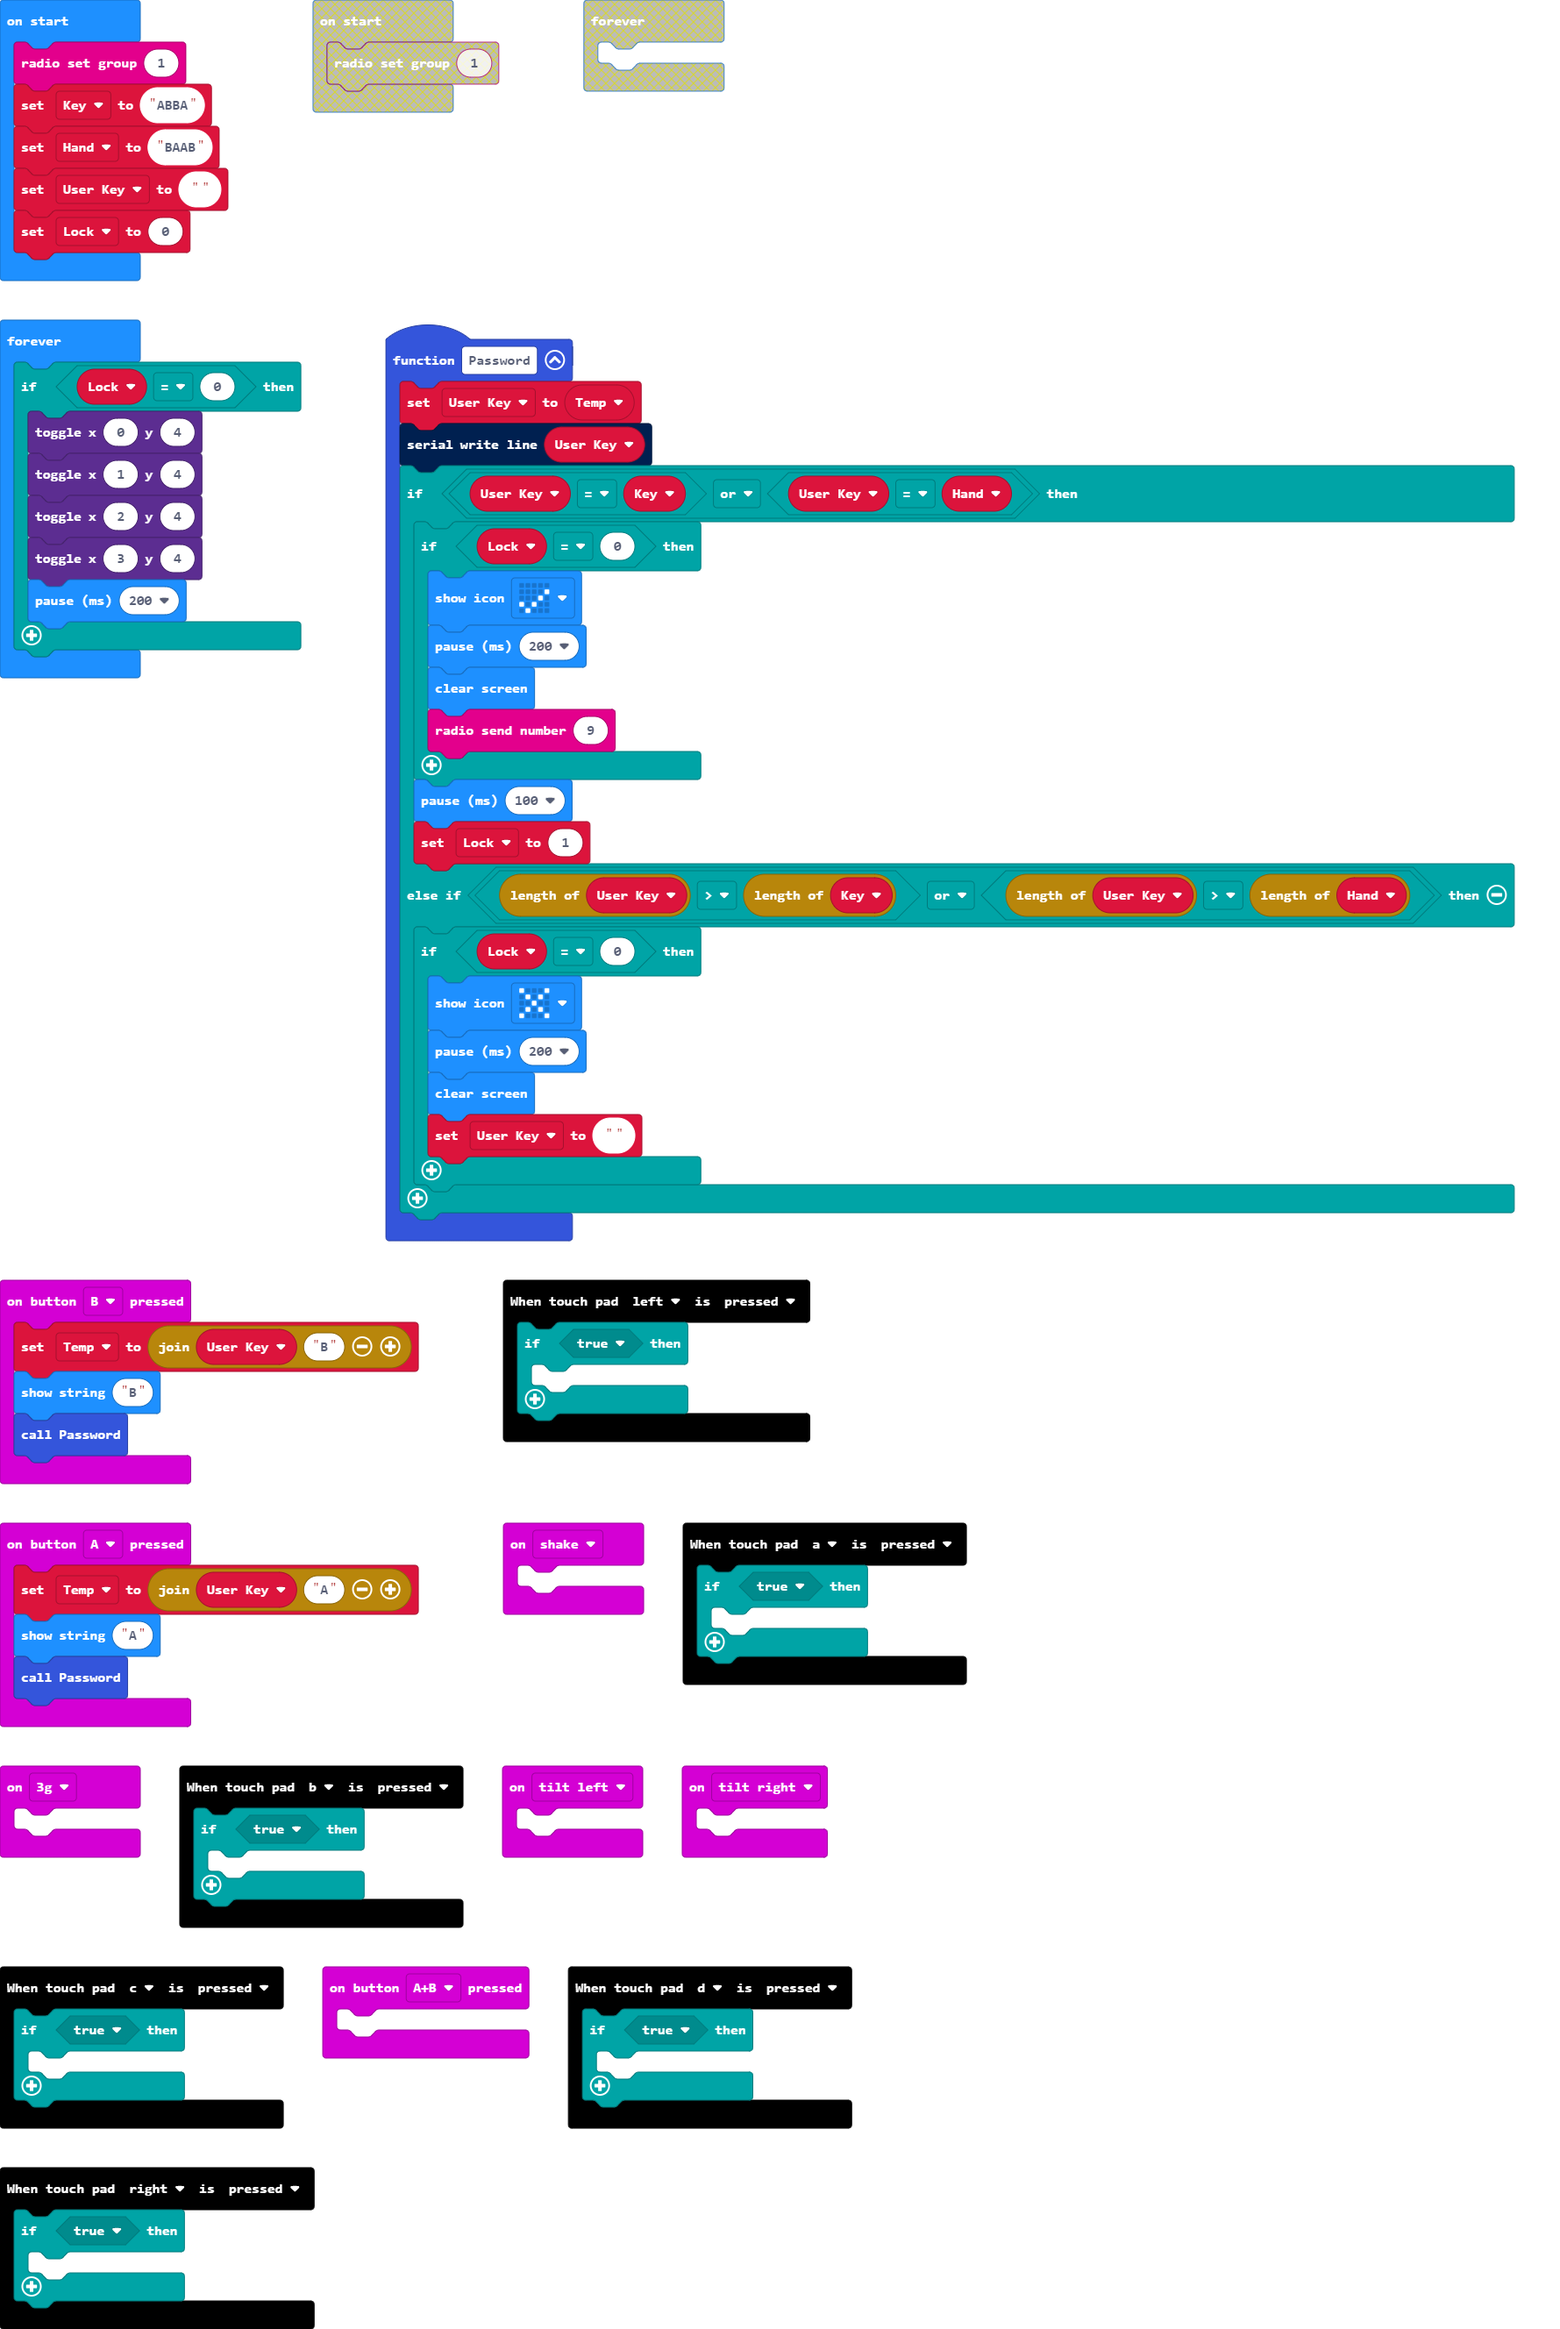
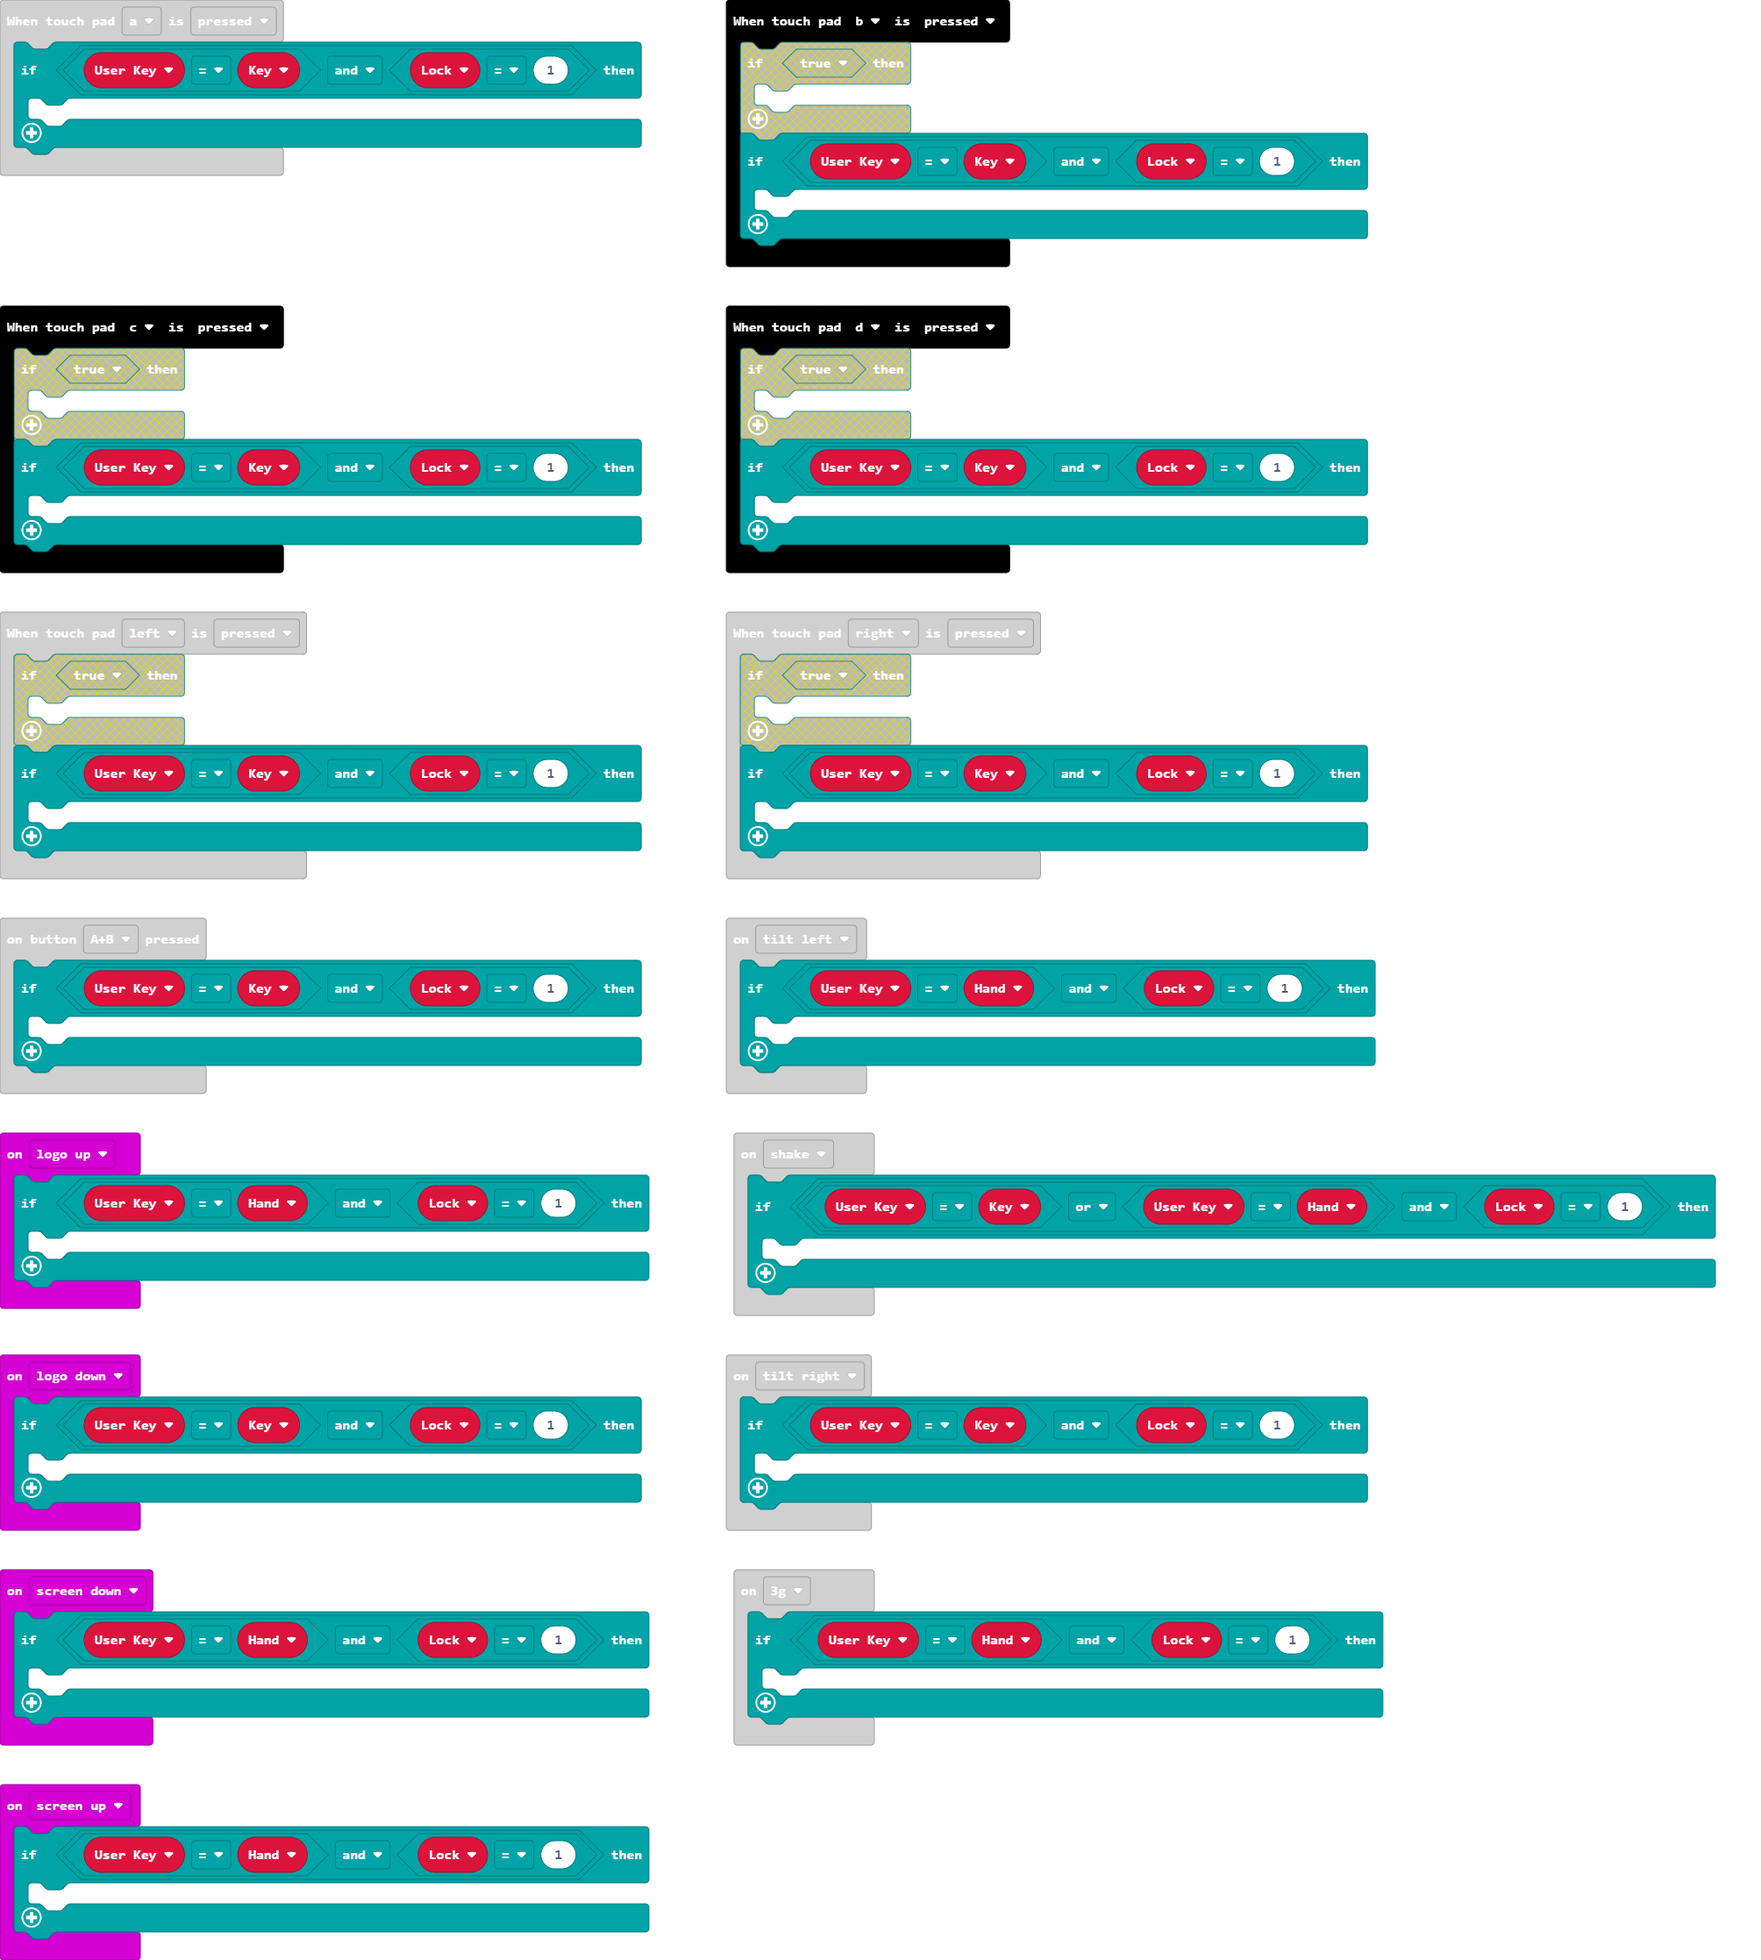
Update main.blocks, main.ts

diff --git a/main.ts b/main.ts
@@ -20,7 +20,7 @@ function Password () {
     }
 }
 touchbit.on(touchbit.TouchPad.b, touchbit.TouchEvent.pressed, function () {
-    if (true) {
+    if (User_Key == Key && Lock == 1) {
     	
     }
 })
@@ -29,31 +29,50 @@ input.onButtonPressed(Button.A, function () {
     basic.showString("A")
     Password()
 })
+input.onGesture(Gesture.LogoUp, function () {
+    if (User_Key == Hand && Lock == 1) {
+    	
+    }
+})
 touchbit.on(touchbit.TouchPad.d, touchbit.TouchEvent.pressed, function () {
-    if (true) {
+    if (User_Key == Key && Lock == 1) {
     	
     }
 })
 input.onGesture(Gesture.TiltLeft, function () {
-	
+    if (User_Key == Hand && Lock == 1) {
+    	
+    }
+})
+input.onGesture(Gesture.ScreenUp, function () {
+    if (User_Key == Hand && Lock == 1) {
+    	
+    }
 })
 touchbit.on(touchbit.TouchPad.right, touchbit.TouchEvent.pressed, function () {
-    if (true) {
+    if (User_Key == Key && Lock == 1) {
     	
     }
 })
 touchbit.on(touchbit.TouchPad.left, touchbit.TouchEvent.pressed, function () {
-    if (true) {
+    if (User_Key == Key && Lock == 1) {
+    	
+    }
+})
+input.onGesture(Gesture.ScreenDown, function () {
+    if (User_Key == Hand && Lock == 1) {
     	
     }
 })
 touchbit.on(touchbit.TouchPad.c, touchbit.TouchEvent.pressed, function () {
-    if (true) {
+    if (User_Key == Key && Lock == 1) {
     	
     }
 })
 input.onButtonPressed(Button.AB, function () {
-	
+    if (User_Key == Key && Lock == 1) {
+    	
+    }
 })
 input.onButtonPressed(Button.B, function () {
     Temp = "" + User_Key + "B"
@@ -61,18 +80,29 @@ input.onButtonPressed(Button.B, function () {
     Password()
 })
 input.onGesture(Gesture.Shake, function () {
-	
+    if ((User_Key == Key || User_Key == Hand) && Lock == 1) {
+    	
+    }
 })
 input.onGesture(Gesture.TiltRight, function () {
-	
+    if (User_Key == Key && Lock == 1) {
+    	
+    }
+})
+input.onGesture(Gesture.LogoDown, function () {
+    if (User_Key == Key && Lock == 1) {
+    	
+    }
 })
 touchbit.on(touchbit.TouchPad.a, touchbit.TouchEvent.pressed, function () {
-    if (true) {
+    if (User_Key == Key && Lock == 1) {
     	
     }
 })
 input.onGesture(Gesture.ThreeG, function () {
-	
+    if (User_Key == Hand && Lock == 1) {
+    	
+    }
 })
 let Temp = ""
 let Lock = 0
